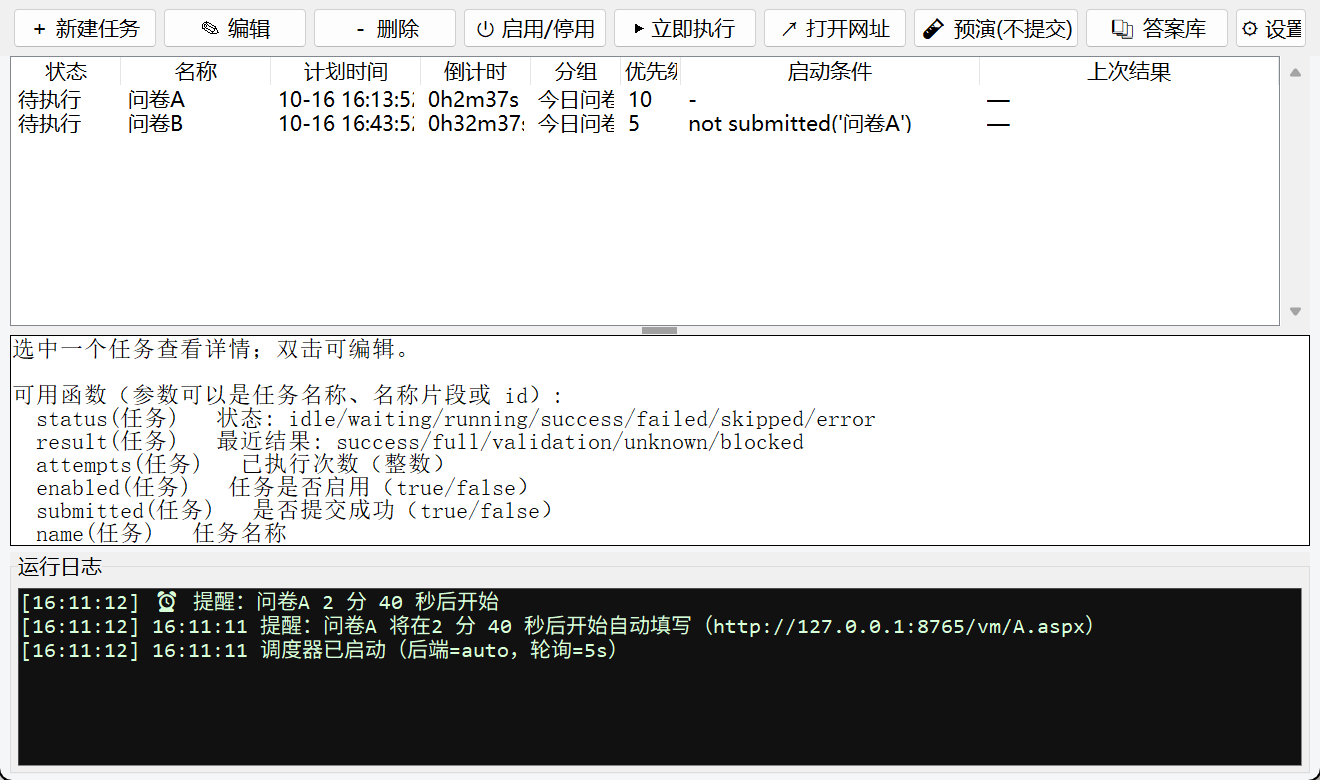
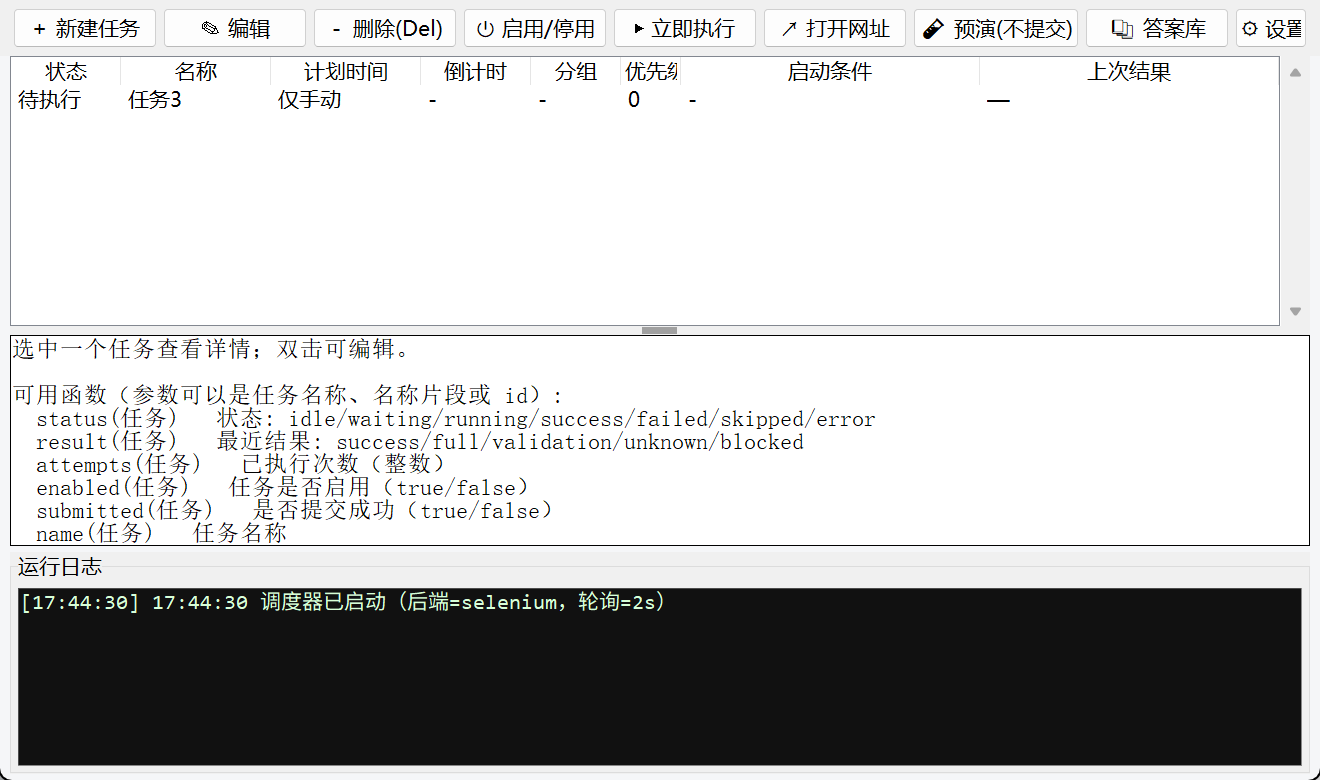
docs: 补充删除与批量操作说明（Del 快捷键/多选/去重/告警）

diff --git a/README.md b/README.md
@@ -15,7 +15,7 @@
 ```bat
 cd wjx-auto
 
-:: 一键自测（66 项：规则引擎 / 答案库与算术 / 题目解析 / 页面状态 / 提交判定 / 提醒 / 条件优先级 / 过期保护 / 配置读写）
+:: 一键自测（84 项：规则引擎 / 答案库与算术 / 题目解析 / 页面状态 / 提交判定 / 提醒 / 条件优先级 / 过期保护 / 配置读写）
 python main.py selftest
 
 :: 一键演示 A/B 场景（自动起模拟问卷服务，完全隔离，不动你的配置）
@@ -110,6 +110,23 @@ python main.py bank clear-pending              :: 清空未命中题目列表
 ```
 
 界面里「📚 答案库」提供同样的增删改、启用停用、清理占位规则，以及一键把未命中题干填入新增规则。
+
+### 删除与批量操作（答案库 / 任务管理通用）
+
+| 操作 | 方式 |
+| --- | --- |
+| 多选 | `Ctrl+单击` 逐个加选、`Shift+单击` 范围选择 |
+| 全选 | `Ctrl+A` 或右键菜单「全选」 |
+| **删除** | **`Delete` 键**（也支持 `BackSpace`）、工具栏「删除(Del)」按钮、右键菜单「删除选中」 |
+| 批量删除确认 | 弹窗逐条列出将删内容 + 依赖告警，**默认焦点在「取消」**，`回车` 与 `Esc` 都是取消 |
+| 一键去重 | 答案库「一键去重」：把「匹配方式+题目+答案」完全相同的重复规则合并成一条 |
+
+> 曾经的坑：`remove_rule` 按 `id` **或** `pattern` 删除，而答案库里同名规则很多
+> （例如 18 条 `pattern=姓名`），删一条会把同名的全部删掉 —— 这就是「删除规则时删掉了其它规则」
+> 的原因。现在只按 `id` 精确删除，批量删除也只处理你选中的那几条。
+
+任务删除额外提示：任务名是否被其它任务的启动条件引用、是否与其它任务同组
+（删除会改变互斥/优先级行为）、是否正在执行中。
 
 **实测结果**（真实问卷 <https://v.wjx.cn/vm/mYv3i3D.aspx>，4 道四则运算题）：
 
